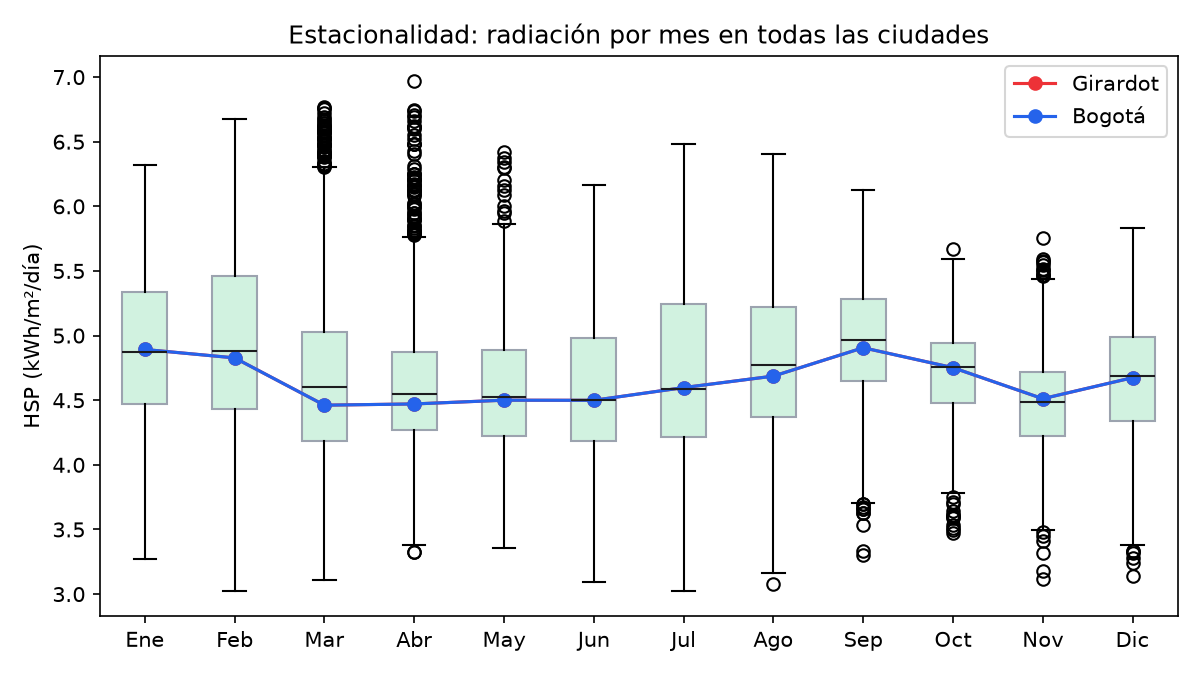
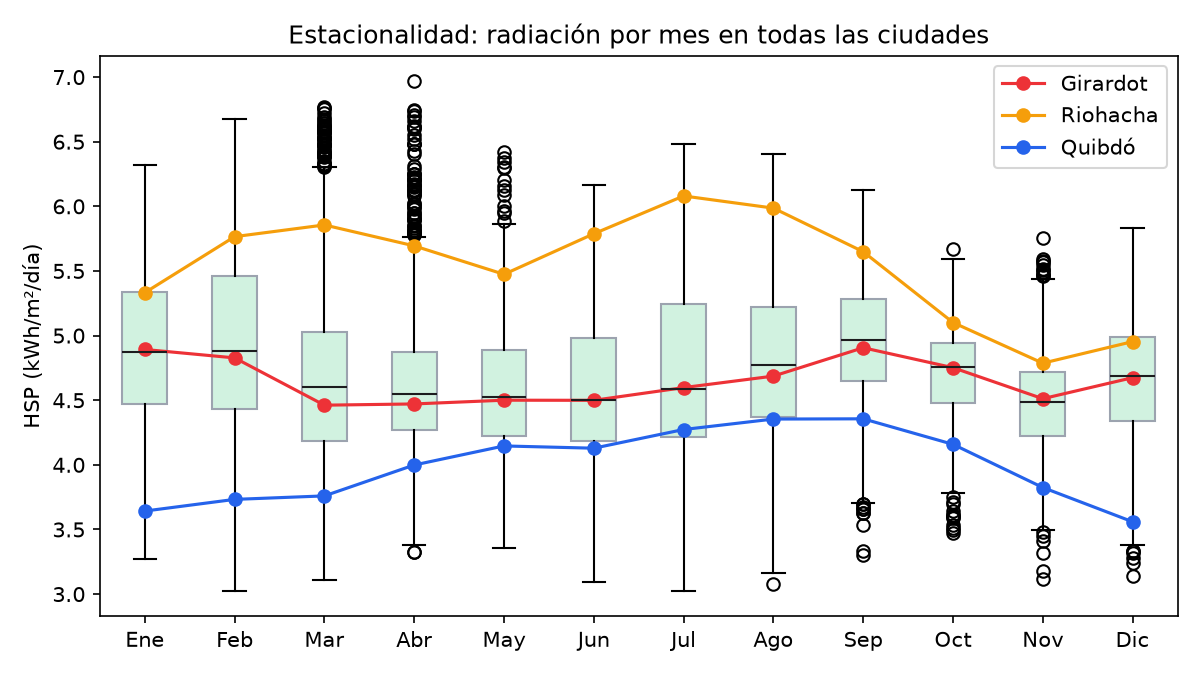
docs(ml): resultados reales y limitaciones; estacionalidad compara Girardot con Riohacha y Quibdo
Claude-Session: https://claude.ai/code/session_0137JCpCnaACyW44JTCt1xui

diff --git a/ml/eda.py b/ml/eda.py
@@ -146,7 +146,9 @@ def graficar(df: pd.DataFrame, res: dict, carpeta: Path) -> None:
     datos_mes = [df.loc[df["mes"] == m, OBJETIVO] for m in range(1, 13)]
     ax.boxplot(datos_mes, tick_labels=MESES, patch_artist=True,
                boxprops={"facecolor": "#D1F2E0", "color": GRIS}, medianprops={"color": OSCURO})
-    for cid, color, etiqueta in (("girardot", ROJO, "Girardot"), ("bogota", "#2563EB", "Bogotá")):
+    # Se compara Girardot con la ciudad de más sol y una de las de menos sol.
+    # (Bogotá no se usa: comparte celda de 1°x1° con Girardot y su línea quedaría encima)
+    for cid, color, etiqueta in (("girardot", ROJO, "Girardot"), ("riohacha", "#F59E0B", "Riohacha"), ("quibdo", "#2563EB", "Quibdó")):
         sub = df[df["ciudad_id"] == cid]
         if not sub.empty:
             ax.plot(range(1, 13), sub.groupby("mes")[OBJETIVO].mean().reindex(range(1, 13)), marker="o", color=color, label=etiqueta)

diff --git a/ml/README.md b/ml/README.md
@@ -43,6 +43,29 @@ python -m pytest                # 4. Pruebas automáticas
 Luego **hay que hacer commit** de `ml/data/`, `ml/reports/` y `app/ml/artifacts/`: el servidor usa esos
 archivos y no entrena nada al arrancar.
 
+## Resultados (datos reales, 2005–2024, 49 ciudades, 11 760 registros)
+
+| Modelo | MAE (kWh/m²/día) | RMSE | R² | MAPE |
+|---|---|---|---|---|
+| Línea base (promedio del mes) | 0,450 | 0,575 | 0,03 | 9,7 % |
+| Regresión lineal | 0,288 | 0,368 | 0,60 | 6,2 % |
+| Random Forest | 0,237 | 0,305 | 0,73 | 5,2 % |
+| **Gradient Boosting (elegido)** | **0,231** | **0,294** | **0,75** | **5,0 %** |
+
+El modelo elegido reduce el error de la línea base en un 49 %. La nubosidad es la variable más importante,
+seguida de la latitud y la época del año.
+
+## Limitaciones (para la sección de conclusiones)
+
+- **Resolución de los datos solares de NASA POWER: celdas de 1°×1° (~110 km).** Girardot, Bogotá, Soacha,
+  Fusagasugá, Facatativá, La Mesa, Melgar y Espinal caen en la misma celda y tienen la misma radiación
+  observada (4,65 HSP), aunque en la realidad Girardot (valle cálido a ~300 m) probablemente recibe más sol
+  que Bogotá (~2 600 m). El modelo las diferencia un poco gracias a las variables climáticas, que vienen en
+  una resolución más fina (0,5°×0,625°), pero no del todo.
+- **Trabajo futuro:** incorporar datos de mayor resolución (Atlas de Radiación Solar del IDEAM/UPME,
+  estaciones meteorológicas locales o mediciones propias de instalaciones reales de Green Saver) y
+  reentrenar.
+
 ## Endpoints
 
 | Método | Ruta | Descripción |
